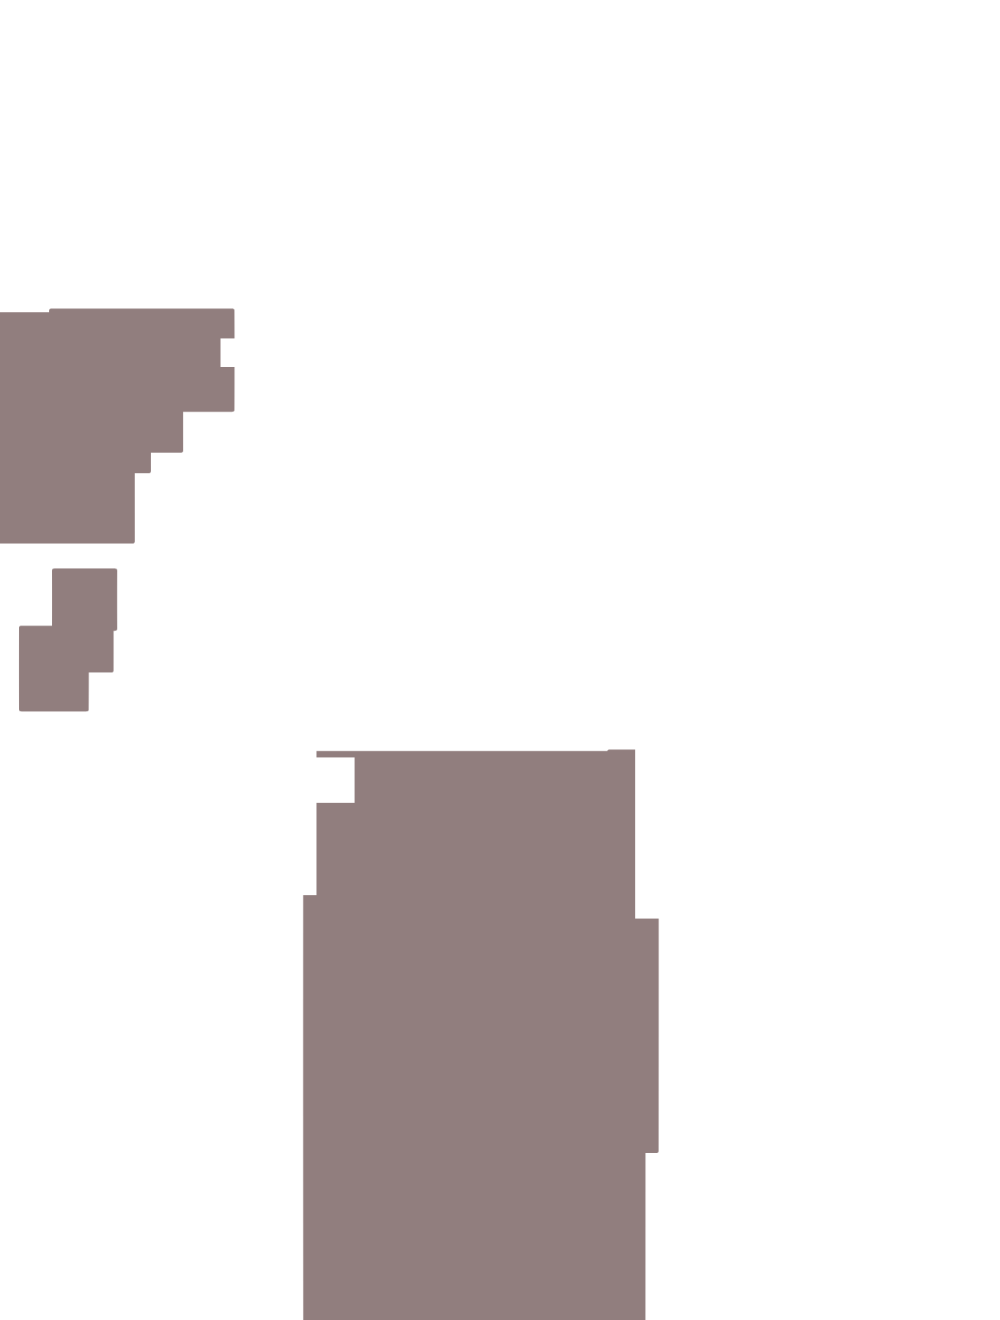
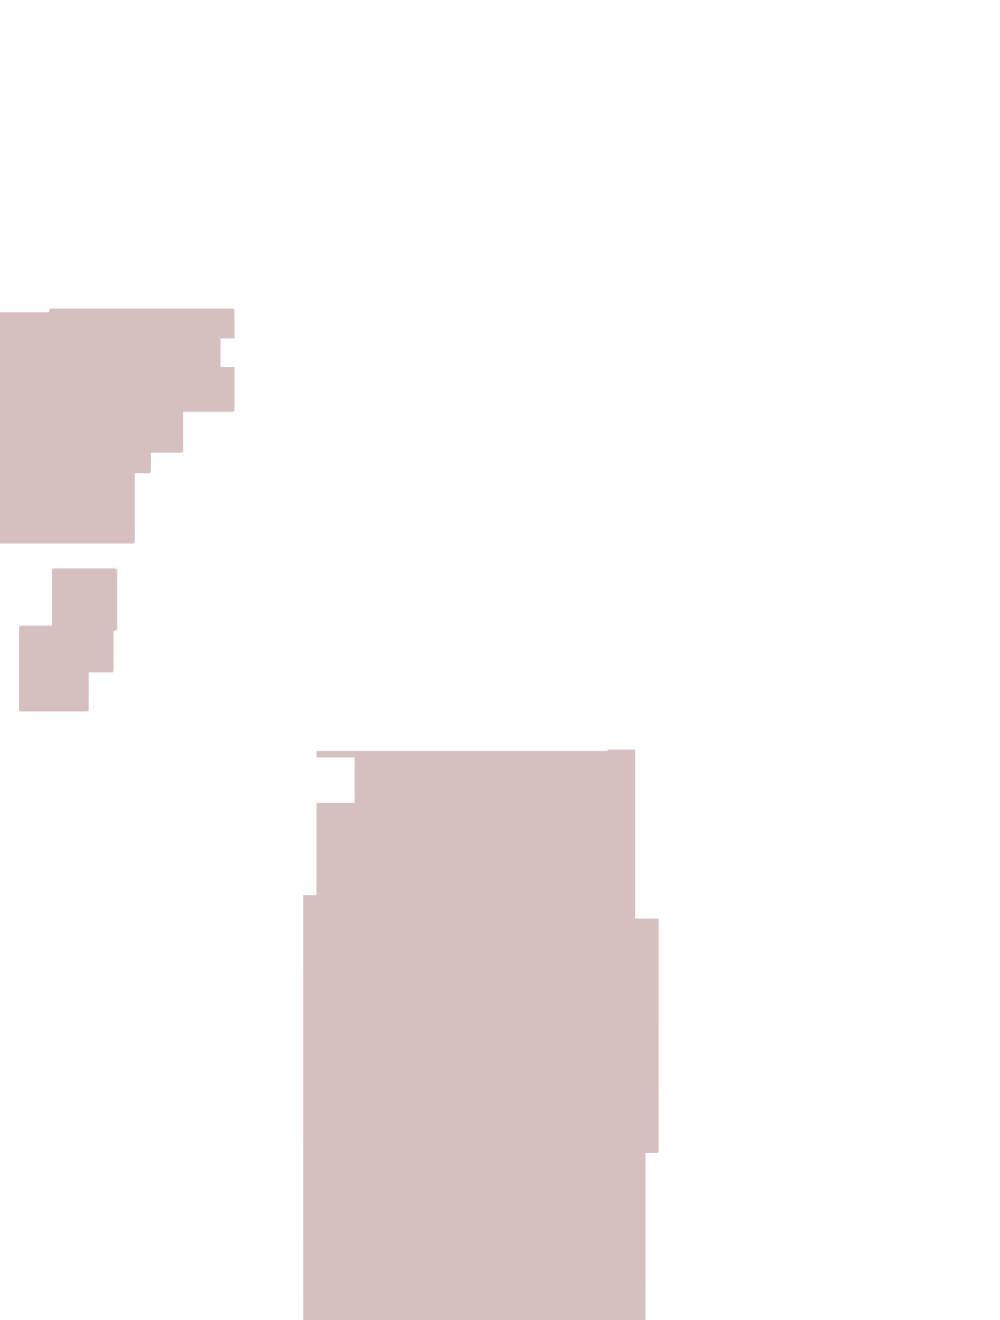
Sprint 2: Down Interact Changes

Changed region(s): [[0.279, 0.5591, 0.682, 1.0], [0.0, 0.2174, 0.248, 0.5591]]

diff --git a/finalPhaserGame/group33game/js/main.js b/finalPhaserGame/group33game/js/main.js
@@ -12,6 +12,8 @@ var currentLevel = 1;
 var arena;
 var endArrow;
 var waterfallPlatform;
+var switchPool;
+var waterfall;
 var CutsceneText;
 var cutsceneTime; //timer for cutscenes
 var cutsceneLength = 50; //minimum time a cutscene can last
@@ -25,9 +27,12 @@ var testTimer = 0;
 var jumpNoise;
 var deathFallNoise;
 var windNoise;
+var playerInPool;
+var waterFrozen = false;
 var playClick = false;
 var creditsClick = false;
 var platformSpeed = 0;
+var downPress = false;
 
 //Main Menu state
 var MainMenu = function(game) {};
@@ -51,6 +56,7 @@ MainMenu.prototype = {
 		game.load.image('testArena', 'assets/img/testArenaWide.png');
 		game.load.image('testRuins', 'assets/img/testRuins.png');
 		game.load.image('testFinal', 'assets/img/testFinal.png');
+		game.load.atlas('waterfallGraphics', 'assets/img/waterfallStates.png', 'js/json/waterfallGraphics.json');
 		game.load.atlas('tempSpriteheet', 'assets/img/betaSpriteAtlas.png', 'js/json/betaSpriteAtlas.json');
 		game.load.image('collideTest', 'assets/img/testSprite.png');
 		game.load.image('wheelPlatform', 'assets/img/betaWheelPlatform.png');
@@ -72,7 +78,7 @@ MainMenu.prototype = {
 		game.load.image('house3', 'assets/img/house3.png');
 		game.load.image('houseFinal', 'assets/img/houseFinal.png');
 		game.load.physics('stageHitboxWide', 'js/json/stageWide1200.json', null);
-		//game.load.physics('houseHitbox', 'js/json/houseHitbox.json', null);
+		game.load.atlas('poolSwitch', 'assets/img/switchPool.png', 'js/json/switchPool.json');
 		game.load.physics('housePhysics', 'js/json/houseHitbox.json', null);
 		game.load.atlas('characterSpritesheet', 'assets/img/characterSpritesheet.png', 'js/json/characterSprite.json');
 		game.load.audio('jumpSound', ['assets/audio/jump.wav']);
@@ -232,7 +238,11 @@ Play.prototype = {
 		game.physics.startSystem(Phaser.Physics.P2JS);
 
 		//put in blue background
-		game.stage.backgroundColor = "#4477b2";
+		game.stage.backgroundColor = "#da9986";
+
+		//set up base variables
+		var playerStartY = 390;
+		var arrowStartY = 90;
 
 		//load all sound effects
 		jumpNoise = game.add.audio('jumpSound');
@@ -269,10 +279,11 @@ Play.prototype = {
 		if(this.level > 0 && this.level <= 8){ //between 1-8
 			//put in arena 1 BG
 			game.add.sprite(0,0, 'caveBackground');
+			waterfall = game.add.sprite(1057, 140, 'waterfallGraphics', 'waterfall');
 
 		}else if(this.level == 9){
 			//ruined arena
-			game.add.sprite(0,0, 'caveBackground');
+			game.add.sprite(0, 250, 'caveBackground');
 
 		}else if(this.level == 10){
 			//final arena
@@ -359,7 +370,7 @@ Play.prototype = {
 			bridge3.body.kinematic = true;
 		}
 
-		//set up the proper arenas
+		//ARENAS
 
 		//level 1-8 arena setup
 		if(this.level > 0 && this.level <= 8){ //between 1-8
@@ -379,7 +390,7 @@ Play.prototype = {
 		}else if(this.level == 9){
 			//ruined arena
 
-			arena = new Arena(game, (game.width)/2, (game.height)/2, 'testRuins');
+			arena = new Arena(game, (game.width)/2, (game.height)/2+250, 'testRuins');
 			game.add.existing(arena);
 			arena.enableBody = true;
 			arena.physicsBodyType = Phaser.Physics.P2JS;
@@ -404,7 +415,10 @@ Play.prototype = {
 
 		
 		platformSpeed = 120;
-		//level specific tools
+
+		//LEVEL SPECIFIC TOOLS
+
+
 		if(this.level == 1){ //control window and waterfall y values
 			//control window
 			var controlWindow = game.add.sprite(game.width/2, 300, 'controlWindow');
@@ -550,12 +564,17 @@ Play.prototype = {
 			lowY = 320;
 			highY = 1000;
 			
+		}else if(this.level == 9){
+			playerStartY = playerStartY + 250;
+			arrowStartY = arrowStartY + 250;
+		}else if(this.level == 10){
+			arrowStartY = arrowStartY + 20;
 		}
 
 		
 
 		//create player
-		player = new Player(game, 100, 390, 'characterSpritesheet', 'Walk1');
+		player = new Player(game, 100, playerStartY, 'characterSpritesheet', 'Walk1');
 		game.add.existing(player);
 		player.enableBody = true; 
 		player.body.setCollisionGroup(touchPlatform);
@@ -570,10 +589,28 @@ Play.prototype = {
 		waterfallPlatform.body.setCollisionGroup(platform); 
 		waterfallPlatform.body.collides([touchPlatform]);
 		
+		switchPool = game.add.sprite(705, 1080, 'poolSwitch', 'waterPool');
+		switchPool.enableBody = true;
+		game.physics.p2.enable(switchPool); //enable physics
+		switchPool.physicsBodyType = Phaser.Physics.P2JS;
+		switchPool.body.clearShapes();
+		switchPool.body.setRectangle(101, 30);
+		switchPool.anchor.set(0.5, 1);
+		switchPool.body.kinematic = true;
+		switchPool.body.setCollisionGroup(platform); 
+		playerInPool = switchPool.body.collides([touchPlatform]);
+		switchPool.body.onBeginContact.add(inPool, this);
+		
+
 		//kill waterfall platform levels 9-10
 		if(this.level >= 9){ //level 9 or 10
 			waterfallPlatform.kill();
 		} 
+
+		//switch behavior
+		function inPool(body, bodyB, shapeA, shapeB, equation){
+			console.log('in the pool');
+		}
 
 		//add player animations
 		player.animations.add('moving', [6, 7, 8, 5], 10, true); 
@@ -617,7 +654,7 @@ Play.prototype = {
 		}
 
 		
-		endArrow = new EndArrow(game, 1160, 90, 'endPetal');
+		endArrow = new EndArrow(game, 1160, arrowStartY, 'endPetal');
 		game.add.existing(endArrow);
 		endArrow.enableBody = true;
 		endArrow.physicsBodyType = Phaser.Physics.P2JS;
@@ -625,11 +662,6 @@ Play.prototype = {
 		//end level if player runs into arrow
 		endArrow.body.collides([touchPlatform]/*, toNextLevel, this*/);
 		endArrow.body.onBeginContact.add(toNextLevel, this);
-
-		/*function contactTest(body, bodyB, shapeA, shapeB, equation){
-			game.stage.backgroundColor = "#FACADE";
-		}*/
-
 		
 
 		//endArrow.body.onBeginContact.add(toNextlevel, this);
@@ -670,10 +702,12 @@ Play.prototype = {
 		//var platformSpeed = 180;
 
 		//general movement of platform
-		if(upward == 0){
+		if(waterFrozen == false && upward == 0){
 			waterfallPlatform.body.velocity.y = -1 * platformSpeed; //go upward
-		}else if(upward == 1){
+		}else if(waterFrozen == false && upward == 1){
 			waterfallPlatform.body.velocity.y = platformSpeed; //go downward
+		}else if(waterFrozen == true){
+			waterfallPlatform.body.velocity.y = 0;
 		}
 
 	
@@ -739,9 +773,26 @@ Play.prototype = {
 			jumpAnimOnce = 0;
 		}
 		//debug, reset jump animation
-		if(this.cursors.down.isDown){
+		/*if(this.cursors.down.isDown){
 			jumpOnce = 0;
 			jumpAnimOnce = 0;
+		}*/
+
+		if(this.cursors.down.isDown /*&& playerInPool*/){ //if player is in pool when Down is pressed
+			//console.log(downPress);
+			if(waterFrozen == false && downPress == false){
+				waterFrozen = true;
+				waterfall.frame = 1;
+				switchPool.frame = 0;
+				downPress = true;
+			}else if(waterFrozen == true && downPress == false){
+				waterFrozen = false;
+				waterfall.frame = 0;
+				switchPool.frame = 1;
+				downPress = true;
+			}
+		}else{
+			downPress = false;
 		}
 
 		//refresh jump function check

diff --git a/finalPhaserGame/group33game/js/prefabs/Player.js b/finalPhaserGame/group33game/js/prefabs/Player.js
@@ -12,6 +12,7 @@ function Player(game, xPass, yPass, key, frame){
 	game.physics.p2.gravity.y = 340; //enable gravity (CHANGE GRAVITY HERE)
 	//this.body.collideWorldBounds = false; // can collide with world bounds
 	this.body.collideWorldBounds = true; // can collide with world bounds
+	this.body.friction = 150;
 	this.body.kinematic = false;
 	//animations
 	/*this.animations.add('moving', [1], 10, true); //moving sprite is second on tempSpritesheet
